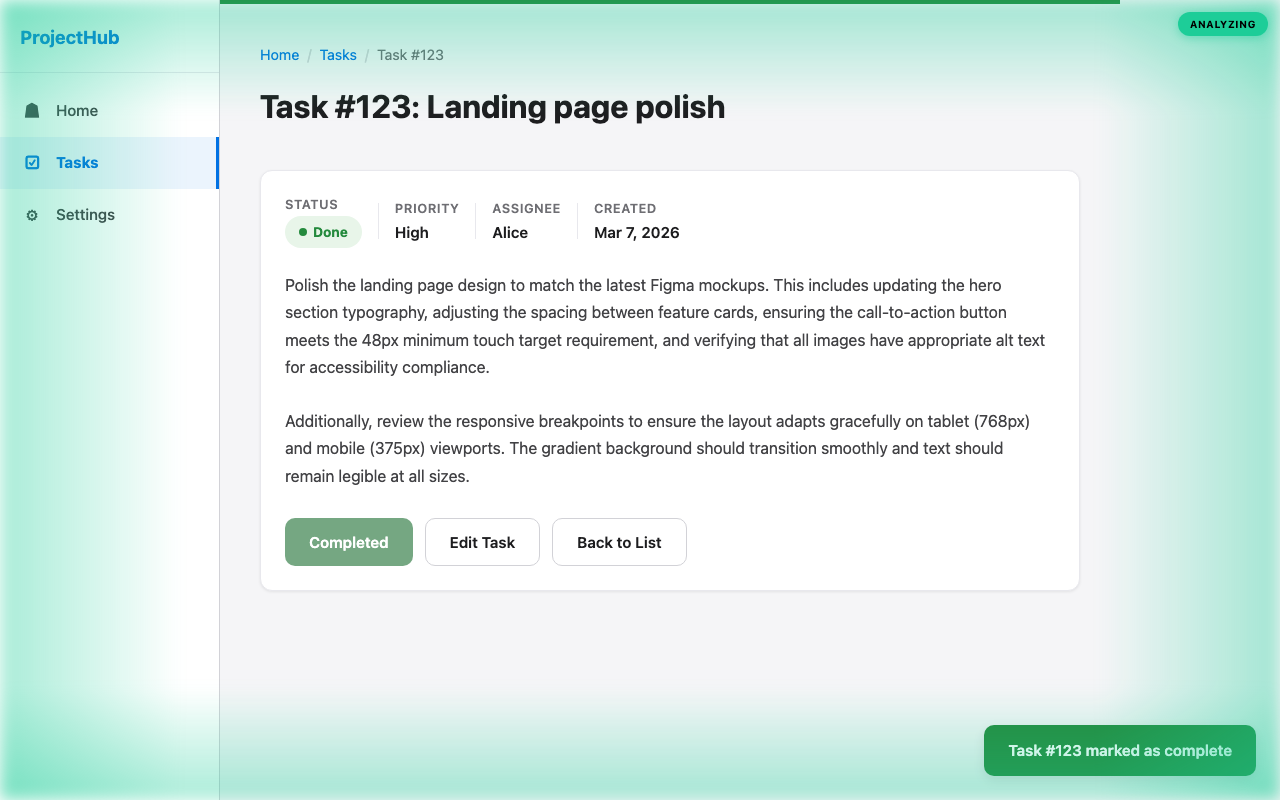
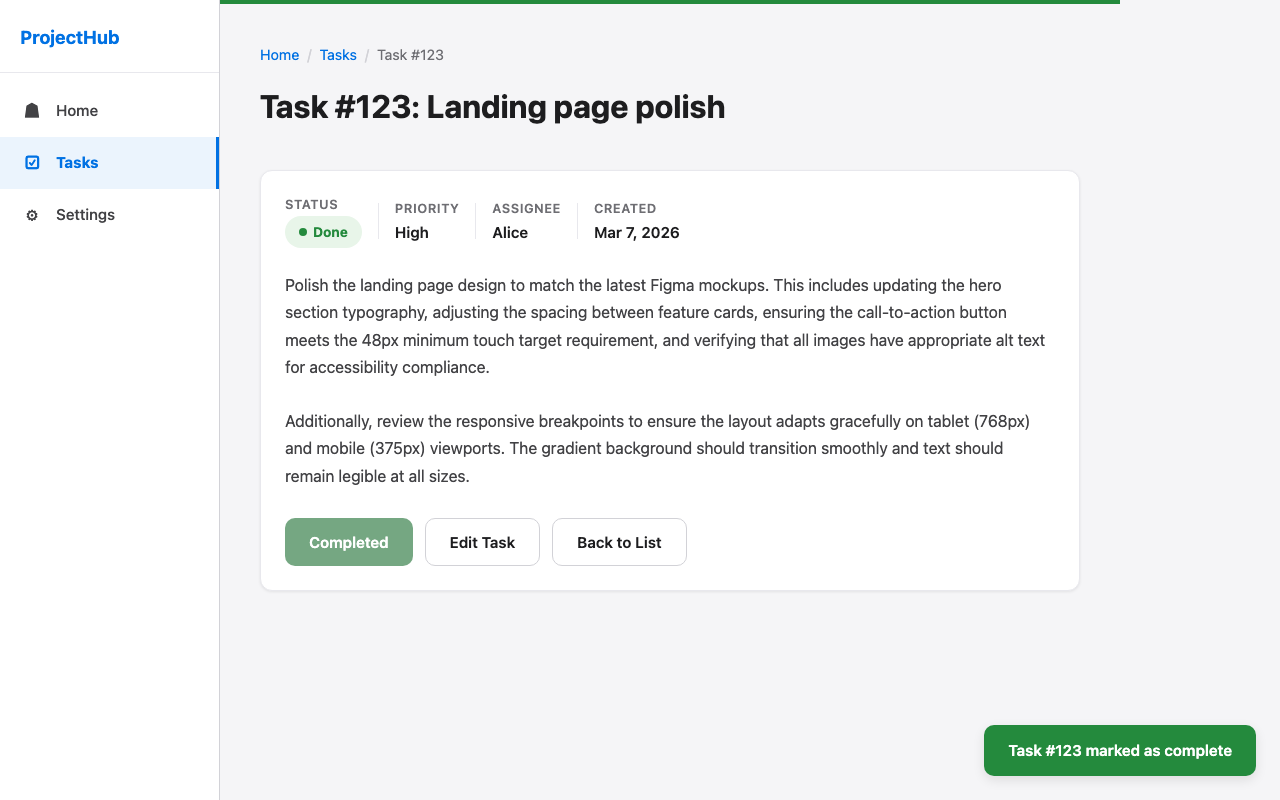
docs: side-by-side screenshots, overlay on first image only
- First image in each pair shows overlay (n1 analyzing)
- Second image is clean (final landed page)
- HTML img tags at 49% width for single-row layout

diff --git a/README.md b/README.md
@@ -21,24 +21,22 @@ n1 is a pixels-to-actions model trained with RL on live websites. Two capabiliti
 
   <details>
   <summary>See screenshots</summary>
-
-  Started on the wrong page → navigated to the correct page
-
-  ![Dashboard — wrong page](docs/images/nav-step0-wrong-page.png)
-  ![Task #123 — correct page](docs/images/nav-step6-correct-page.png)
-
+  <p>n1 analyzing the wrong page → landed on the correct page</p>
+  <p>
+    <img src="docs/images/nav-step0-wrong-page.png" alt="Dashboard — wrong page, overlay active" width="49%">
+    <img src="docs/images/nav-step6-correct-page.png" alt="Task #123 — correct page" width="49%">
+  </p>
   </details>
 
 - **Rich visual evaluation** — On the task detail page for Task #123, after clicking "Mark Complete", n1 reported three changes: status badge "In Progress"→"Done", button label→"Completed", toast notification appeared. Playwright MCP would need three hand-written assertions.
 
   <details>
   <summary>See screenshots</summary>
-
-  Before → after clicking "Mark Complete"
-
-  ![Before — In Progress](docs/images/mark-complete-before.png)
-  ![After — Done + toast](docs/images/mark-complete-after.png)
-
+  <p>n1 analyzing the page before clicking → result after clicking "Mark Complete"</p>
+  <p>
+    <img src="docs/images/mark-complete-before.png" alt="Before — In Progress, overlay active" width="49%">
+    <img src="docs/images/mark-complete-after.png" alt="After — Done + toast" width="49%">
+  </p>
   </details>
 
 ## Install
